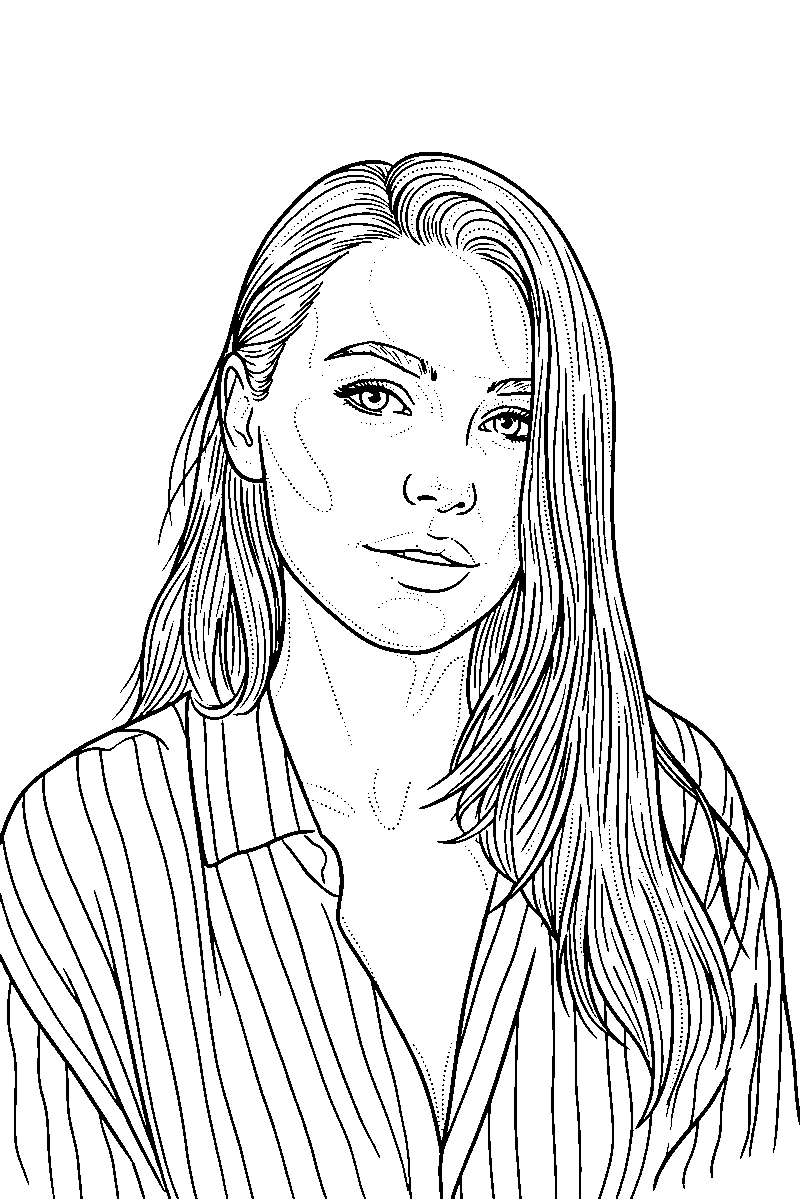
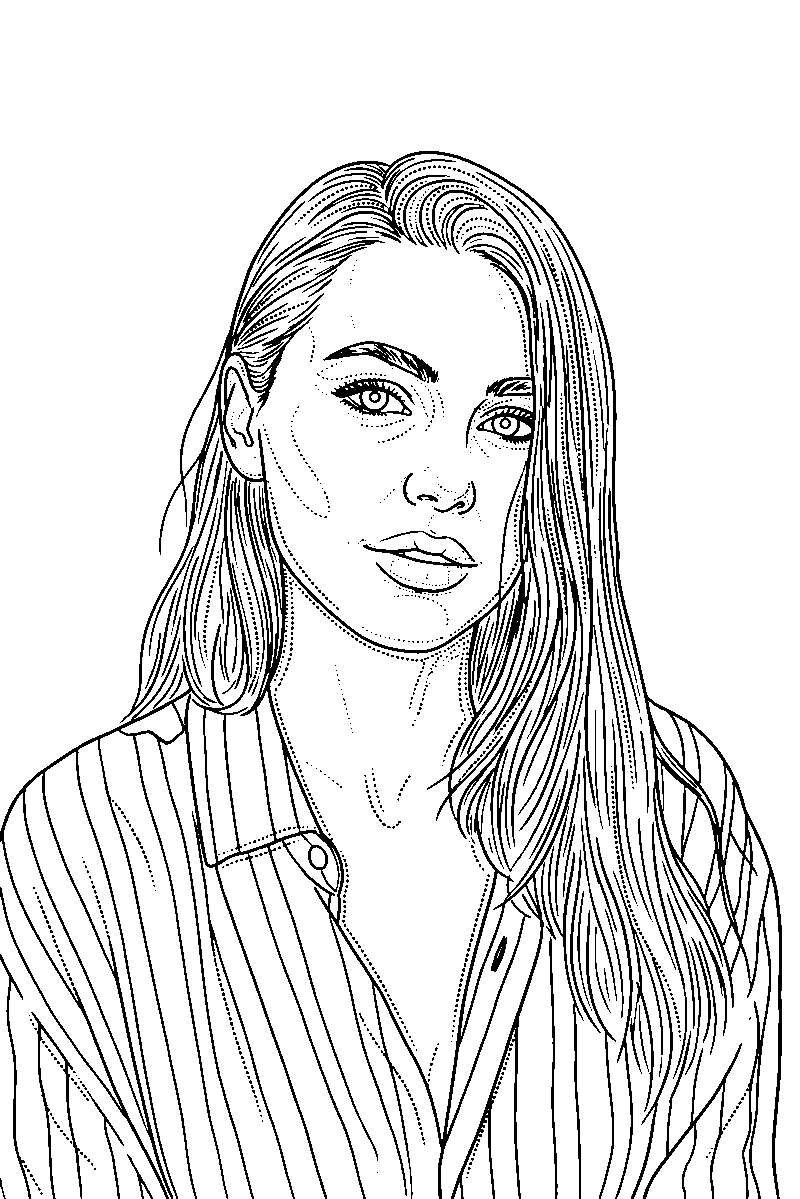
auto-commit for 68a2ea98-6a01-425e-b58e-fb66a0c64126

diff --git a/backend/server.py b/backend/server.py
@@ -2154,7 +2154,8 @@ DETAIL LEVEL: {detail_level.upper()}
 FIDELITY — strict (applies to all detail levels):
 - Replicate only what is visibly present in the source image; do NOT invent, add, extend, or interpret anything not clearly there
 - Do NOT complete, correct, or clean up the subject — keep it exactly as shown
-- NO solid black fills ANYWHERE. This applies even to features that appear dark in the source image: eyebrows, pupils, irises, nostrils, eye liner, hair shadows, and any deep shadow area MUST be drawn as OUTLINES ONLY, never filled with black or any solid color
+- NO solid black fills ANYWHERE. This applies even to features that appear dark in the source image: eyebrows, pupils, irises, nostrils, eye liner, hair shadows, and any deep shadow area MUST be drawn as OUTLINES ONLY, never filled with black or any solid color. The PUPIL in particular must be a hollow circle outline only — never filled black, never solid. The IRIS must be a hollow outline only — never filled or shaded solid.
+- EYELASHES must be drawn as individual fine hair strokes with the thinnest possible line weight — never a thick continuous band or heavy shadow along the lash line. Each lash is a delicate separate hair.
 - NO crosshatching or sketch-style shading
 - LINE WEIGHT (applies to all detail levels — extremely important for readable tattoo transfer):
   • This rule applies ONLY to CONTINUOUS SOLID LINES — it does NOT apply to DOTTED or DASHED shading guides. Dots/dashes must stay at normal, clearly visible weight so they read on skin — do NOT shrink the dots.
@@ -2346,7 +2347,8 @@ DETAIL LEVEL: {detail_level.upper()}
 FIDELITY — strict (applies to all detail levels):
 - Replicate only what is visibly present in the source image; do NOT invent, add, extend, or interpret anything not clearly there
 - Do NOT complete, correct, or clean up the subject — keep it exactly as shown
-- NO solid black fills ANYWHERE. This applies even to features that appear dark in the source image: eyebrows, pupils, irises, nostrils, eye liner, hair shadows, and any deep shadow area MUST be drawn as OUTLINES ONLY, never filled with black or any solid color
+- NO solid black fills ANYWHERE. This applies even to features that appear dark in the source image: eyebrows, pupils, irises, nostrils, eye liner, hair shadows, and any deep shadow area MUST be drawn as OUTLINES ONLY, never filled with black or any solid color. The PUPIL in particular must be a hollow circle outline only — never filled black, never solid. The IRIS must be a hollow outline only — never filled or shaded solid.
+- EYELASHES must be drawn as individual fine hair strokes with the thinnest possible line weight — never a thick continuous band or heavy shadow along the lash line. Each lash is a delicate separate hair.
 - NO crosshatching or sketch-style shading
 - LINE WEIGHT (applies to all detail levels — extremely important for readable tattoo transfer):
   • This rule applies ONLY to CONTINUOUS SOLID LINES — it does NOT apply to DOTTED or DASHED shading guides. Dots/dashes must stay at normal, clearly visible weight so they read on skin — do NOT shrink the dots.
